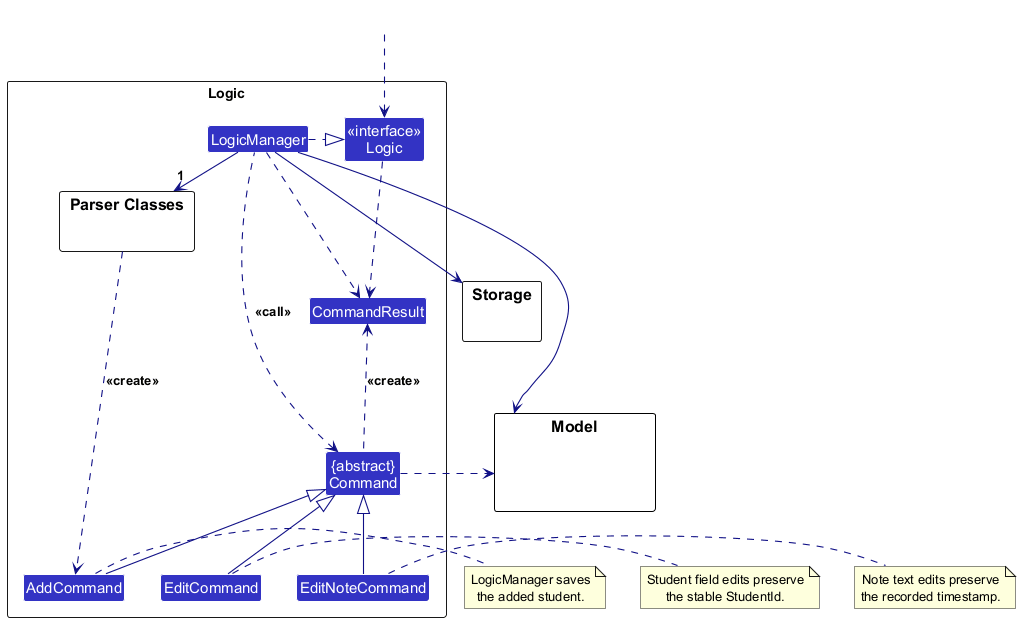
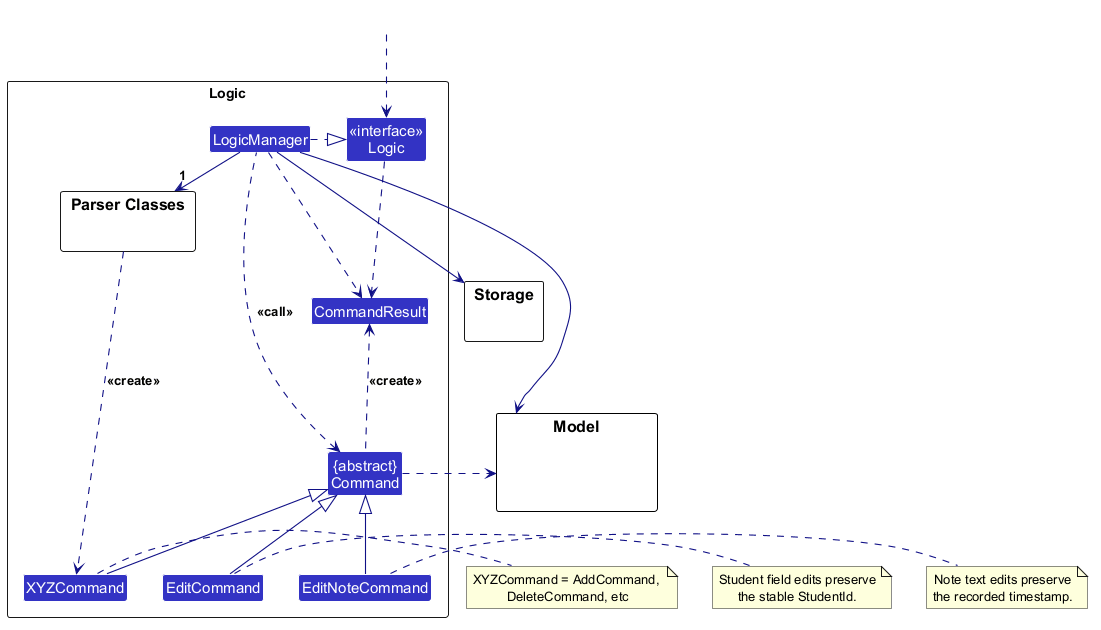
Address UML review feedback
Restore generic command views and correct the UI and parser diagrams.

Show add command creation and activations, then regenerate images.

diff --git a/docs/DeveloperGuide.md b/docs/DeveloperGuide.md
@@ -73,7 +73,7 @@ The **API** of this component is specified in [`Ui.java`](https://github.com/se-
 
 ![Structure of the UI Component](images/UiClassDiagram.png)
 
-The UI consists of a `MainWindow` and its parts, such as `CommandBox`, `ResultDisplay`, `StudentRosterPanel`, and `StatusBarFooter`. All of these, including `MainWindow`, inherit from the abstract `UiPart` class, which captures common behavior among classes that represent visible GUI parts.
+The UI consists of a `MainWindow` and its parts, such as `CommandBox`, `ResultDisplay`, `StudentRosterPanel`, `StudentProfilePanel`, and `StatusBarFooter`. All of these, including `MainWindow`, inherit from the abstract `UiPart` class, which captures common behavior among classes that represent visible GUI parts.
 
 The `UI` component uses the JavaFX UI framework. The layouts of these UI parts are defined in matching `.fxml` files in `src/main/resources/view`. For example, [`MainWindow.fxml`](https://github.com/se-edu/addressbook-level3/tree/master/src/main/resources/view/MainWindow.fxml) specifies the layout of [`MainWindow`](https://github.com/se-edu/addressbook-level3/tree/master/src/main/java/seedu/address/ui/MainWindow.java).
 
@@ -114,8 +114,8 @@ Here are the other classes in `Logic` (omitted from the class diagram above) tha
 
 How the parsing works:
 
-* For `add`, `AddressBookParser` creates an `AddCommandParser`. That parser checks the supported prefixes and required fields, builds a validated `Student`, and returns an `AddCommand` as a `Command` object. The diagram shows this route explicitly.
-* `AddCommandParser` and the other command parsers implement the `Parser` interface so they can be treated similarly where appropriate, for example during testing.
+* To parse a command, `AddressBookParser` creates the matching command parser, represented by `XYZCommandParser` in the diagram. For example, `add` uses `AddCommandParser` and `delete` uses `DeleteCommandParser`. The command parser returns an `XYZCommand` (such as `AddCommand` or `DeleteCommand`), which `AddressBookParser` returns as a `Command`.
+* Command parsers such as `AddCommandParser` and `DeleteCommandParser` implement the `Parser` interface so they can be treated similarly where appropriate, for example during testing.
 
 ### Model component
 
